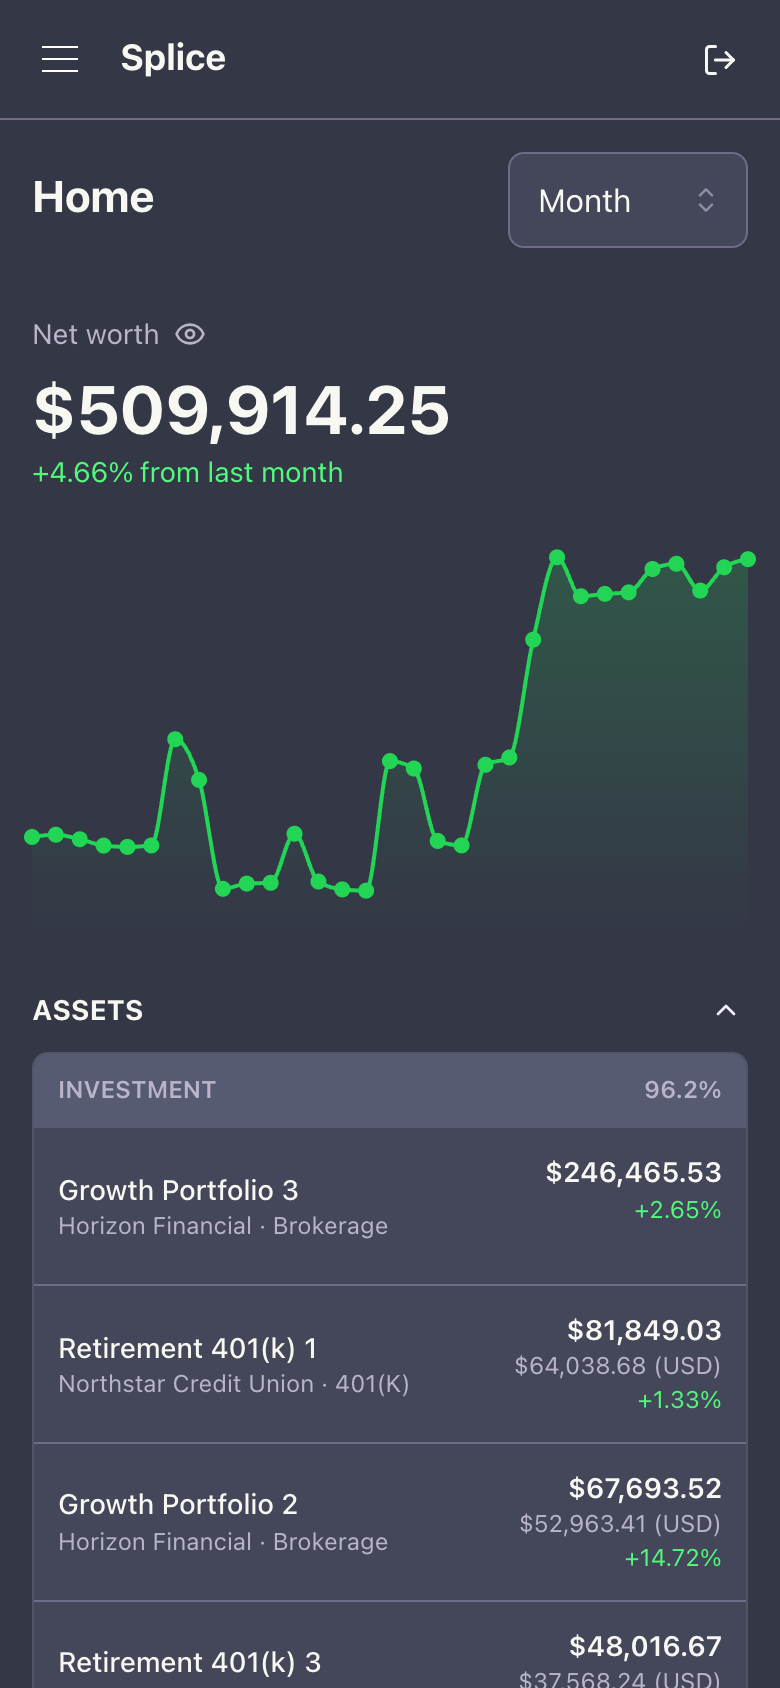
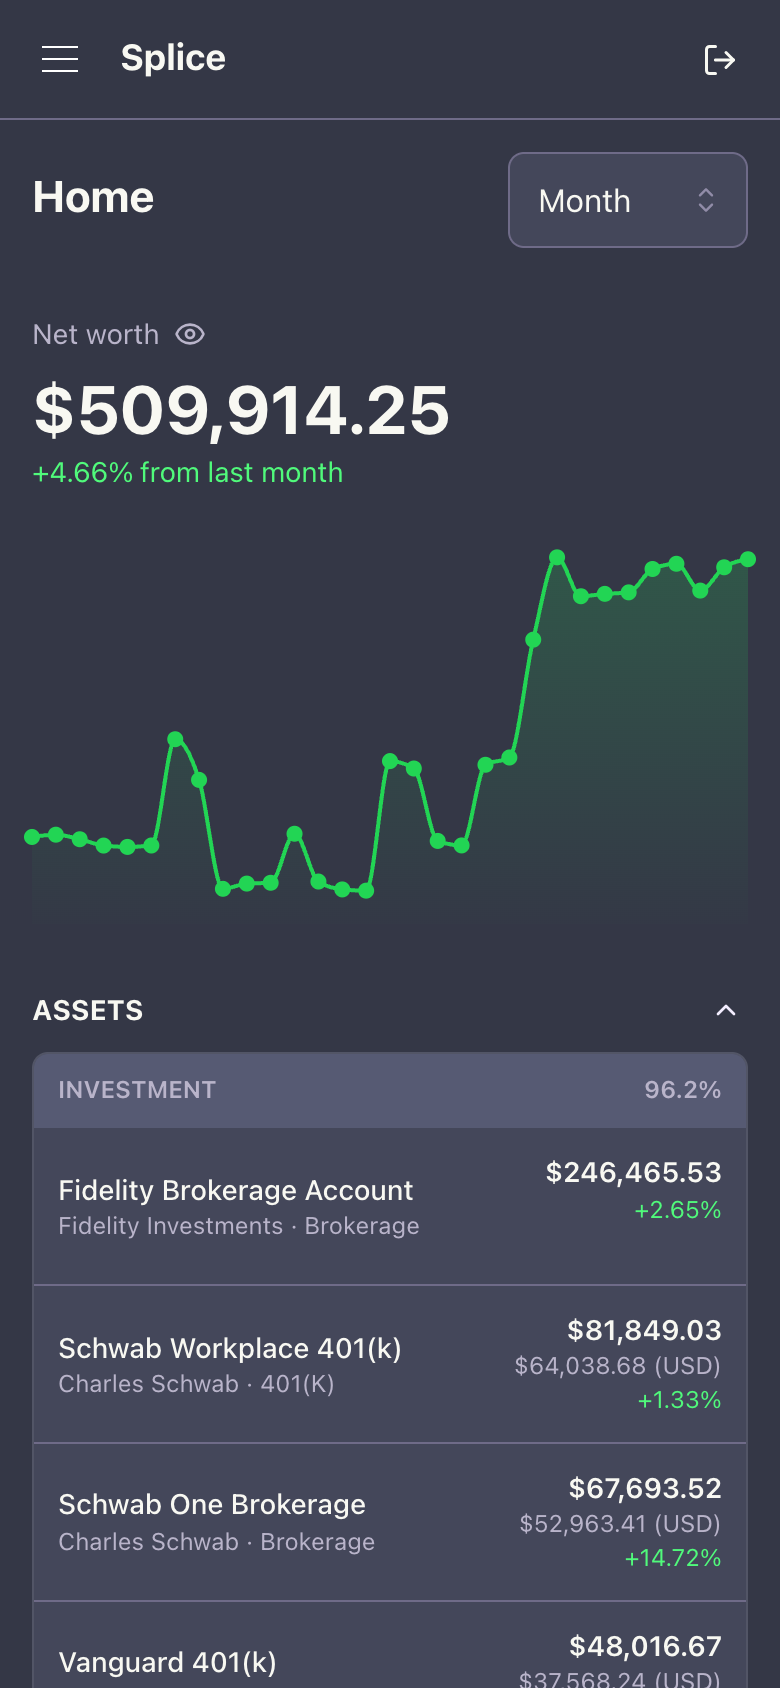
docs: use realistic screenshot data

diff --git a/README.md b/README.md
@@ -6,9 +6,7 @@
 
 A full-stack personal finance application for tracking net worth across multiple accounts and currencies.
 
-## Product Tour
-
-Screenshots use anonymized demo data.
+## Screenshots
 
 | Feature | Description | Desktop | Mobile |
 | --- | --- | --- | --- |
